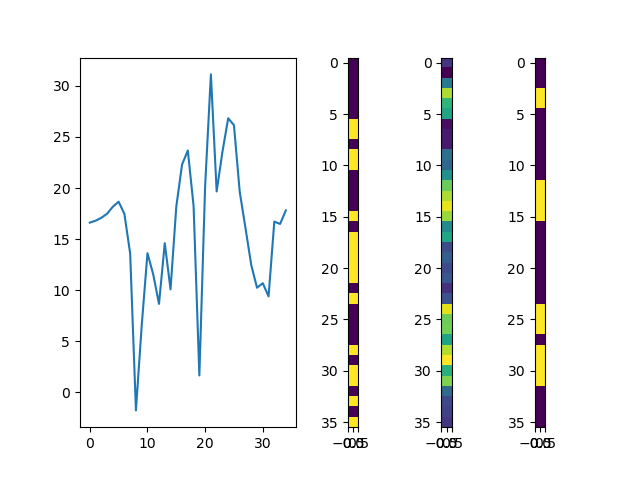
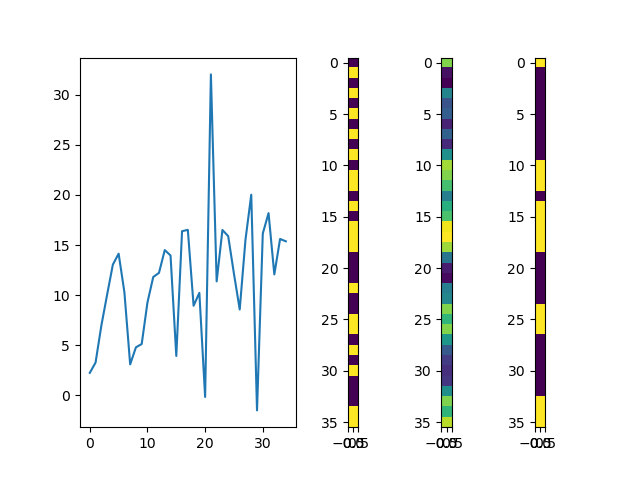
updates

diff --git a/1d/peaks_to_slot/analysis.py b/1d/peaks_to_slot/analysis.py
@@ -6,6 +6,43 @@ import matplotlib.pyplot as plt
 
 with open('/Users/joshuaneronha/Documents/Brown/Research/LeakyWaveML/1d/peaks_to_slot/results/generated_slots.pkl', 'rb') as file:
     data = pickle.load(file)
+true = [x[1] for x in data]
+prediction = [x[2] for x in data]
+#
+# prediction = np.array([[1,2,3],[3,2,1]])
+# prediction
+# prediction.max(axis=1)
+#
+# np.argsort(testy,axis=1)
+#
+# gathered = tf.gather(np.argsort(testy,axis=1), [1,2],axis=1,batch_dims=1)
+# gathered
+# prediction
+# tf.gather(prediction, gathered, axis=1,batch_dims=1)
+#
+# minny = tf.repeat(tf.expand_dims(tf.gather(prediction, gathered, axis=1,batch_dims=1),axis=1),axis=1,repeats = 3)
+# minny
+#
+# tf.greater_equal(prediction,minny)
+
+
+def assump_accuracy(prediction, true):
+    ba = tf.keras.metrics.BinaryAccuracy()
+    total_slots = 36 - tf.reduce_sum(true,axis=1)
+
+    prediction_sorted = tf.argsort(prediction, axis=1)
+
+    gathered = tf.gather(prediction_sorted, total_slots,axis=1,batch_dims=1)
+                # print(gathered.shape)
+                # print(gathered)
+    #
+    minny = tf.repeat(tf.expand_dims(tf.gather(prediction, gathered, axis=1,batch_dims=1),axis=1),axis=1,repeats = true.shape[1])
+    #             # print(prediction.shape)
+    #             # print(minny.shape)
+    #
+    rounded = tf.greater_equal(prediction,minny)
+    #
+    return ba(tf.cast(rounded,tf.float32),true)
 
 def plot_rounded(which):
     this_data = data[which]
@@ -23,13 +60,20 @@ def plot_rounded(which):
     naive = tf.round(this_data[2])
 
     fig = plt.figure()
-    ax = fig.subplots(1,4, gridspec_kw={'width_ratios': [3, 1, 1, 1]})
+    ax = fig.subplots(1,5, gridspec_kw={'width_ratios': [3, 1, 1, 1, 1]})
     ax[0].plot(this_data[0])
     ax[1].imshow(true_slot,cmap = 'GnBu')
-    ax[2].imshow(tf.expand_dims(pred,1),cmap = 'GnBu')
-    ax[3].imshow(tf.expand_dims(naive,1),cmap = 'GnBu')
+    ax[2].imshow(tf.expand_dims(this_data[2],1),cmap = 'GnBu')
+    ax[3].imshow(tf.expand_dims(pred,1),cmap = 'GnBu')
+    ax[4].imshow(tf.expand_dims(naive,1),cmap = 'GnBu')
 
-plot_rounded(1)
+
+# assump_accuracy(tf.expand_dims(tf.stack(prediction)[0],axis=0),tf.expand_dims(tf.squeeze(tf.stack(true)[9]),axis=0))
+assump_accuracy(tf.stack(prediction),tf.squeeze(tf.stack(true)))
+ba = tf.keras.metrics.BinaryAccuracy()
+ba(tf.round(tf.stack(prediction)),tf.squeeze(tf.stack(true)))
+# ba(tf.round(tf.expand_dims(tf.stack(prediction)[9],axis=0)),tf.expand_dims(tf.stack(true)[9],axis=0))
+plot_rounded(2)
 
 
 

diff --git a/1d/peaks_to_slot/peaks_to_slots_model.py b/1d/peaks_to_slot/peaks_to_slots_model.py
@@ -44,17 +44,33 @@ class LWAPredictionModel(tf.keras.Model):
 
         return self.dense_layers(input)
 
+    def assump_accuracy(self, prediction, true):
+        ba = tf.keras.metrics.BinaryAccuracy()
+        total_slots = 36 - tf.reduce_sum(true,axis=1)
+
+        prediction_sorted = tf.argsort(prediction, axis=1)
+
+        gathered = tf.gather(prediction_sorted, total_slots,axis=1,batch_dims=1)
+                # print(gathered.shape)
+                # print(gathered)
+
+        minny = tf.repeat(tf.expand_dims(tf.gather(prediction, gathered, axis=1,batch_dims=1),axis=1),axis=1,repeats = true.shape[1])
+                # print(prediction.shape)
+                # print(minny.shape)
+
+        rounded = tf.greater_equal(prediction,minny)
+
+        return ba(tf.cast(rounded,tf.float32),true)
+
+
     def loss_function(self, prediction, true):
 
-
+        # print(prediction)
         bce = tf.keras.losses.BinaryCrossentropy()
-        # bfce = tf.keras.losses.BinaryFocalCrossentropy()
-        total_slots = tf.math.abs(tf.math.subtract(tf.cast(tf.reduce_sum(tf.round(true), axis=1),tf.float32),tf.cast(tf.reduce_sum(tf.round(prediction), axis=1),tf.float32)))
-        normalized = total_slots / tf.cast(tf.reduce_sum(tf.round(true),axis=1),tf.float32)
-        # print(normalized)
-        return bce(true, prediction) + (0*tf.reduce_mean(normalized))
-        # return bce(true,prediction)
-        # return
+        # ba = tf.keras.losses.BinaryCrossentropy()
+
+
+        return bce(true,prediction)
 
     def accuracy(self, prediction, true):
         ba = tf.keras.metrics.BinaryAccuracy()

diff --git a/1d/peaks_to_slot/build_model.py b/1d/peaks_to_slot/build_model.py
@@ -49,6 +49,7 @@ def test(model, slots, peaks):
 
     loss_list = []
     acc_list = []
+    assump_acc_list = []
 
     while completed < len(slots):
 
@@ -66,10 +67,12 @@ def test(model, slots, peaks):
 
         loss_list.append(efarx_loss)
         acc_list.append(model.accuracy(efarx, slot_batch))
+        assump_acc_list.append(model.assump_accuracy(efarx,slot_batch))
 
 
     # print('Efarx testing loss: ', tf.reduce_mean(loss_list))
     print('Efarx testing accuracy:', tf.reduce_mean(acc_list))
+    print('Efarx testing assumption accuracy:', tf.reduce_mean(assump_acc_list))
 
 def main():
 

diff --git a/1d/peaks_to_slot/preprocess.py b/1d/peaks_to_slot/preprocess.py
@@ -28,7 +28,7 @@ def import_data(timestamp_list):
             # max = peaks[past_thresh].max(axis=1)
             # print(max.shape)
             # normalized = np.divide(peaks[past_thresh].T,np.max(peaks[past_thresh],axis=1)).T
-            # normalized = peaks[past_thresh] / peaks[past_thresh].max(axis=0)
+            # normalized = (peaks[past_thresh].T / peaks[past_thresh].max(axis=1)).T# TEMP:
             # peaks_list.append(normalized)
             # peaks_list.append(normalized)
             peaks_list.append(peaks[past_thresh])
